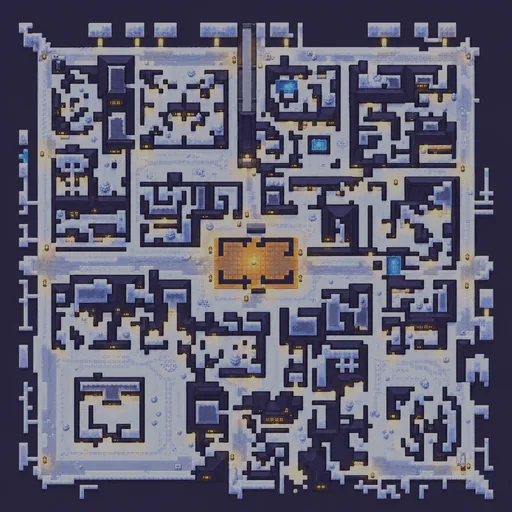
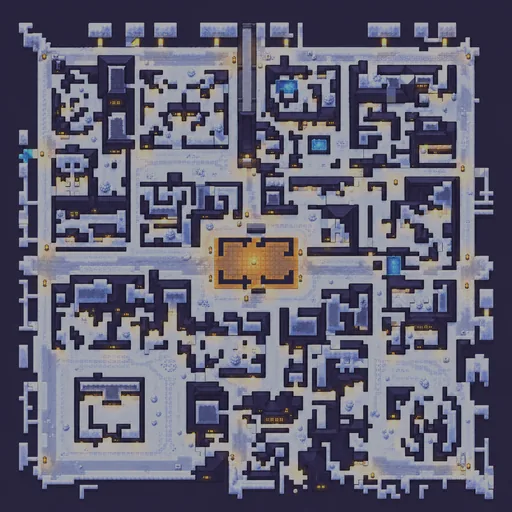
Minimapa: fundo pintado da v5 (a pintura da v4 com o chão aberto repintado de neve, IoU 0,962)

diff --git a/scripts/minimapa/fundo-v5.ts b/scripts/minimapa/fundo-v5.ts
@@ -1,0 +1,44 @@
+/**
+ * Fundo do minimapa da Cidade Nevada v5 (NEW-20261025-ORQ-mapa-conexoes-sem-beco): a pintura do ChatGPT da v4
+ * (evidence/minimapa-arte-chatgpt/fundo/fundo-m1-t1.png, world-aligned, IoU 0,964) com o chão que a v5 abriu (passagens,
+ * entulho tirado) repintado de neve: cada pixel de uma amostra aberta copia a cor do pixel de neve da v4 mais perto
+ * (a mesma textura da pintura, sem chamar o ChatGPT de novo). Grava evidence/minimapa-arte-chatgpt/fundo/fundo-m2-v5.png,
+ * que scripts/minimapa/atlas.mjs leva ao jogo.
+ * Uso: node --experimental-strip-types scripts/minimapa/fundo-v5.ts
+ */
+import {readFileSync} from 'node:fs';
+import {execFileSync} from 'node:child_process';
+import sharp from 'sharp';
+import {decodeCityAsset,type CityAsset} from '../../src/maps/index.ts';
+
+/** The commit whose asset (v4) the painting was made from. */
+export const V4_COMMIT='078bc794';
+const EV='evidence/minimapa-arte-chatgpt/fundo';
+const asset=(text:string):CityAsset=>{const d=decodeCityAsset(text);if(!d.ok)throw new Error(d.error);return d.asset;};
+const v4=asset(execFileSync('git',['show',`${V4_COMMIT}:public/maps/cidade-nevada.json`],{encoding:'utf8',maxBuffer:64<<20}));
+const v5=asset(readFileSync('public/maps/cidade-nevada.json','utf8'));
+if(v4.version!==4||v5.version!==5)throw new Error(`versions ${v4.version}, ${v5.version}`);
+
+const {data,info}=await sharp(`${EV}/fundo-m1-t1.png`).removeAlpha().raw().toBuffer({resolveWithObject:true});
+const W=info.width,H=info.height,{w:SW,h:SH}=v5.samples;
+const sample=(x:number,y:number)=>[Math.min(SW-1,Math.floor(x*SW/W)),Math.min(SH-1,Math.floor(y*SH/H))] as const;
+// Pixels to repaint: open on v5, shut on v4. Donors: open on both (snow of the painting), away from the patch's edge.
+const patch=new Uint8Array(W*H),donor=new Uint8Array(W*H);
+for(let y=0;y<H;y++)for(let x=0;x<W;x++){
+  const [sx,sy]=sample(x,y),o4=v4.walkable(sx,sy),o5=v5.walkable(sx,sy);
+  if(o5&&!o4)patch[x+y*W]=1;else if(o4&&o5)donor[x+y*W]=1;
+}
+// A donor pixel must sit 2 px inside the snow (its rim is the walls' lighter edge).
+const inner=donor.slice();
+for(let y=0;y<H;y++)for(let x=0;x<W;x++){if(!donor[x+y*W])continue;
+  for(let dy=-2;dy<=2;dy++)for(let dx=-2;dx<=2;dx++){const X=x+dx,Y=y+dy;if(X<0||Y<0||X>=W||Y>=H||!donor[X+Y*W]){inner[x+y*W]=0;dy=3;break;}}}
+const out=Buffer.from(data);let painted=0;
+for(let y=0;y<H;y++)for(let x=0;x<W;x++){if(!patch[x+y*W])continue;
+  let best=-1;
+  for(let r=1;r<40&&best<0;r++)for(let dy=-r;dy<=r&&best<0;dy++)for(const dx of Math.abs(dy)===r?Array.from({length:2*r+1},(_,i)=>i-r):[-r,r]){
+    const X=x+dx,Y=y+dy;if(X>=0&&Y>=0&&X<W&&Y<H&&inner[X+Y*W]){best=X+Y*W;break;}}
+  if(best<0)continue;
+  for(let c=0;c<3;c++)out[(x+y*W)*3+c]=data[best*3+c];painted++;
+}
+await sharp(out,{raw:{width:W,height:H,channels:3}}).png().toFile(`${EV}/fundo-m2-v5.png`);
+console.log(JSON.stringify({painted,of:W*H,out:`${EV}/fundo-m2-v5.png`}));

diff --git a/src/client/hud/wc-minimap/art.ts b/src/client/hud/wc-minimap/art.ts
@@ -22,7 +22,7 @@ export type MmIcon=typeof MM_ICONS[number];
 export const MM_CELL=64;
 export const MM_MARKS_URL='/art/minimapa/marcas.webp',MM_CITY_URL='/art/minimapa/cidade-nevada.webp';
 /** The asset the city art was painted from, and the art's side in px. */
-export const MM_CITY_ART=Object.freeze({id:'cidade-nevada',version:4,side:512});
+export const MM_CITY_ART=Object.freeze({id:'cidade-nevada',version:5,side:512});
 
 /** The atlas cell of a class's face, or -1 (no face: the mark stays a dot in the team colour). */
 export const faceCell=(classId:string|undefined)=>classId?MM_FACES.indexOf(classId as typeof MM_FACES[number]):-1;
